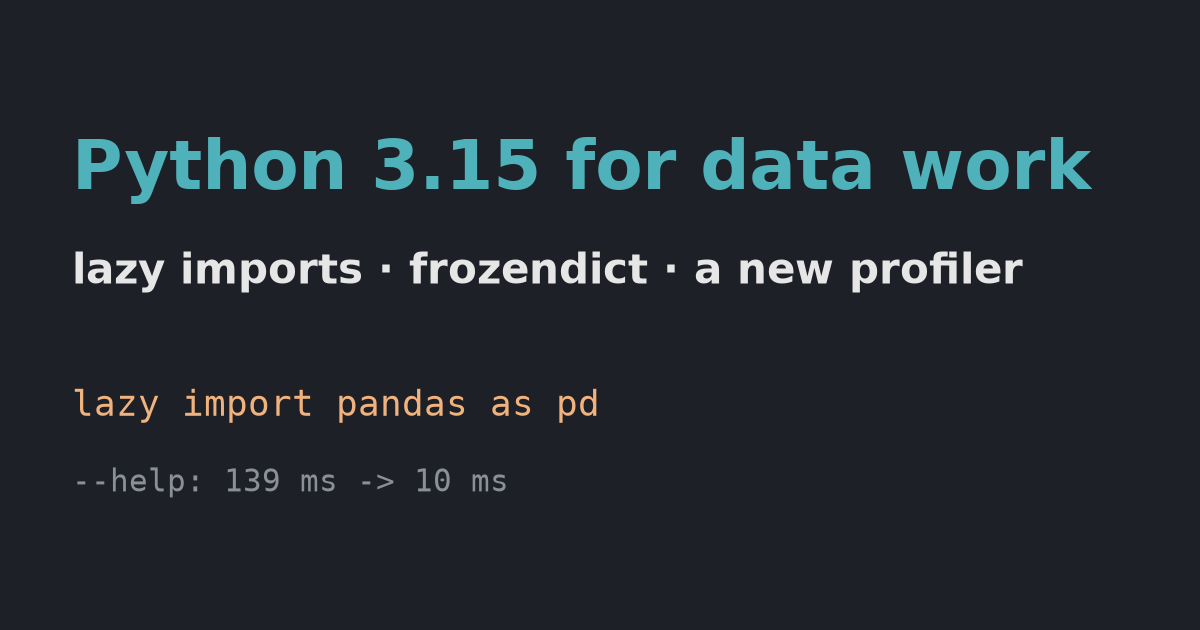
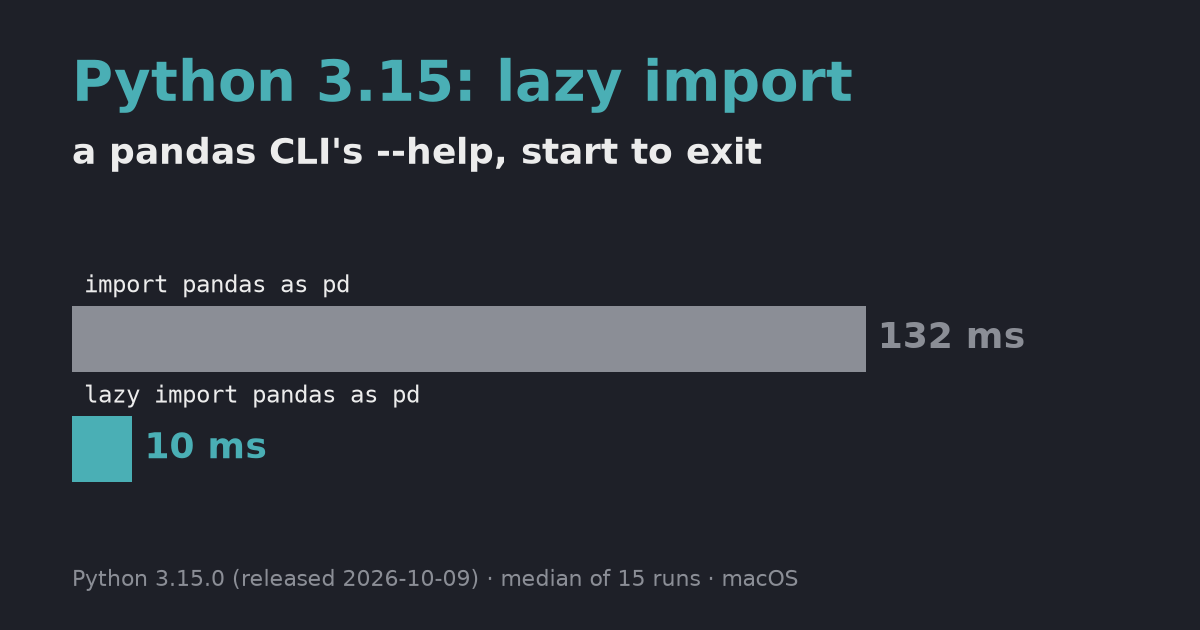
post: Python 3.15 for data work: lazy imports, frozendict and a new profiler

diff --git a/blog/_posts/2026-10-12-python_3_15_data.md b/blog/_posts/2026-10-12-python_3_15_data.md
@@ -1,0 +1,168 @@
+---
+layout: post
+title: "Python 3.15 for data work: lazy imports, frozendict and a new profiler"
+description: >
+  What Python 3.15 changes for data scientists, tested: lazy import cut a pandas CLI's --help from 132 ms to 10 ms,
+  plus frozendict, unpacking in comprehensions, UTF-8 by default and the new profiling package.
+image: /assets/img/blog/python_3_15_data/cover.png
+sitemap:
+  changefreq: daily
+  priority: 1.0
+---
+
+# Python 3.15 for data work: lazy imports, frozendict and a new profiler
+
+**TL;DR** — Python 3.15.0 was released on 2026-10-09. It adds `lazy import`, which delays loading a module until it is first used. In a small CLI, it cut the
+`--help` path from 132 ms to 10 ms by not loading pandas. It also adds a built-in `frozendict`, `*` unpacking inside comprehensions,
+UTF-8 as the default text encoding everywhere, and a new `profiling` package.
+
+_Tested on 2026-10-12 with Python 3.15.0 (released 2026-10-09), numpy 2.5.4 and pandas 3.0.6 on macOS (Apple M5)._
+
+## Key points
+
+- **`lazy import pandas as pd`** (PEP 810) loads pandas only when `pd` is first used. Scripts that sometimes don't need a heavy library start much faster.
+- **`frozendict`** (PEP 814) is an immutable, hashable dict, so you can use settings as cache keys.
+- **`[*x for x in lists]`** (PEP 798) flattens in one comprehension; `{**d for d in dicts}` merges.
+- **UTF-8 is now the default encoding** (PEP 686), no matter the system locale. `open()` without `encoding=` behaves the same on every OS.
+- **The new `profiling` package** (PEP 799) holds the classic tracing profiler and a new sampling profiler. On macOS the sampling profiler needs elevated permissions.
+
+## How much faster does lazy import make startup?
+
+A common pattern: a script imports pandas at the top, but some code paths (like `--help`) never use it.
+
+```python
+import sys
+lazy import pandas as pd
+
+if "--help" in sys.argv:
+    print("usage: report.py FILE")          # this path never touches pandas
+    sys.exit(0)
+df = pd.DataFrame({"x": range(3)})
+print(int(df["x"].sum()))
+```
+
+We timed this script against the same script with a normal `import pandas as pd` (median of 15 runs each, process start to exit):
+
+```python
+import statistics, subprocess, sys, time
+
+def median_ms(args, runs=15):
+    times = []
+    for _ in range(runs):
+        t0 = time.perf_counter(); subprocess.run([sys.executable, *args], capture_output=True, check=True)
+        times.append((time.perf_counter() - t0) * 1000)
+    return statistics.median(times)
+
+print(sys.version.split()[0])
+for mode in ["eager", "lazy"]:
+    print(f"{mode:<6} --help: {median_ms([f'cli_{mode}.py', '--help']):6.0f} ms   real run: {median_ms([f'cli_{mode}.py']):6.0f} ms")
+```
+
+```
+3.15.0
+eager  --help:    132 ms   real run:    132 ms
+lazy   --help:     10 ms   real run:    144 ms
+```
+
+![Bar chart of median start-to-exit time on Python 3.15.0: with a normal import, --help and the real run both take 132 ms; with lazy import, --help takes 10 ms and the real run 144 ms](/assets/img/blog/python_3_15_data/lazy_import.png)
+
+- The `--help` path went from **132 ms to 10 ms**, because pandas was never loaded. This part was the same in every run.
+- The real run took 132 ms with a normal import and 144 ms with lazy import here. In another run on the same machine it was 141 vs 134 ms, the other way round, so treat that difference as noise: lazy import moves the cost of loading pandas, it doesn't remove it.
+
+This matters for command-line tools, test collection, and notebooks or scripts that import many libraries but use a few per run.
+
+## What other new features help day-to-day data code?
+
+```python
+# PEP 798: unpacking in comprehensions
+batches = [[1, 2], [3], [4, 5, 6]]
+print("flattened:", [*b for b in batches])
+configs = [{"lr": 0.1}, {"epochs": 5}, {"lr": 0.01}]
+print("merged:", {**c for c in configs})
+
+# PEP 814: frozendict, an immutable and hashable dict
+params = frozendict(lr=0.01, epochs=5)
+cache = {params: "score 0.93"}               # usable as a dict key
+print("lookup:", cache[frozendict(epochs=5, lr=0.01)])
+try:
+    params["lr"] = 0.1
+except TypeError as e:
+    print("TypeError:", e)
+
+# PEP 686: UTF-8 is the default text encoding
+import locale
+with open("tmp.txt", "w") as f:
+    print("open() default encoding:", f.encoding, "| locale:", locale.getpreferredencoding(False))
+```
+
+```
+flattened: [1, 2, 3, 4, 5, 6]
+merged: {'lr': 0.01, 'epochs': 5}
+lookup: score 0.93
+TypeError: 'frozendict' object does not support item assignment
+open() default encoding: utf-8 | locale: utf-8
+```
+
+- **Flattening** batches no longer needs `itertools.chain` or a double loop.
+- **Merging** dicts keeps the last value for repeated keys (`lr` became 0.01).
+- **`frozendict`** keys match regardless of argument order, which makes it handy for caching results per hyperparameter set.
+- **UTF-8 by default** mainly helps Windows users, where `open()` used to depend on the system locale. On our Mac, both were already UTF-8.
+
+## How do you profile with the new profiling package?
+
+Python 3.15 groups profilers under `profiling`. The tracing profiler (the classic `cProfile`, now also at `profiling.tracing`) finds a slow `apply`:
+
+```python
+import pandas as pd
+import numpy as np
+
+def load(n=300_000):
+    rng = np.random.default_rng(0)
+    return pd.DataFrame({"user": rng.integers(0, 5_000, n), "amount": rng.gamma(2.0, 20.0, n)})
+
+def add_tax_slow(df):
+    return df.apply(lambda row: row["amount"] * 1.1, axis=1)   # row-by-row: slow
+
+def summarize(df):
+    return df.groupby("user")["amount"].agg(["sum", "mean"])
+
+df = load()
+df["with_tax"] = add_tax_slow(df)
+print(summarize(df).shape)
+```
+
+```bash
+python -m profiling.tracing -s cumulative slow_pipeline.py
+```
+
+```
+         7848327 function calls (7841461 primitive calls) in 1.157 seconds
+   ncalls  tottime  percall  cumtime  percall filename:lineno(function)
+        1    0.000    0.000    1.157    1.157 slow_pipeline.py:1(<module>)
+        1    0.000    0.000    1.003    1.003 slow_pipeline.py:8(add_tax_slow)
+   300000    0.035    0.000    0.541    0.000 slow_pipeline.py:9(<lambda>)
+        1    0.003    0.003    0.004    0.004 slow_pipeline.py:4(load)
+        1    0.000    0.000    0.003    0.003 slow_pipeline.py:11(summarize)
+```
+
+(Trimmed to the rows from our script.) `add_tax_slow` took 1.003 of 1.157 seconds. The fix is a vectorized `df["amount"] * 1.1`.
+
+The new **sampling profiler** (`python -m profiling.sampling run script.py`, nicknamed Tachyon) has lower overhead and can attach to a running process.
+On macOS, our run on 3.15.0 stopped with "Permission Error: Unable to access process memory on macOS" and a suggestion to rerun with `sudo -E`, so we did not include its output here.
+
+## Should you upgrade now?
+
+| If you… | Then |
+|---|---|
+| Maintain CLIs or scripts with heavy imports | Try `lazy import` for the libraries used on only some paths |
+| Depend on many compiled packages | Check each one ships wheels for 3.15 (numpy 2.5.4 and pandas 3.0.6 installed as `cp315` wheels on our Mac on 2026-10-12) |
+| Read or write text files on Windows | Re-test file I/O: the default encoding changed to UTF-8 |
+| Need to support older Pythons | `lazy import` is a syntax error before 3.15; keep it out of shared code for now |
+
+## Sources
+
+- [Python 3.15.0 release page](https://www.python.org/downloads/release/python-3150/) — released 2026-10-09, checked 2026-10-12
+- [What's New In Python 3.15](https://docs.python.org/3.15/whatsnew/3.15.html) — Python docs, checked 2026-10-12
+- [PEP 810](https://peps.python.org/pep-0810/) (lazy imports), [PEP 814](https://peps.python.org/pep-0814/) (frozendict), [PEP 798](https://peps.python.org/pep-0798/) (unpacking in comprehensions), [PEP 686](https://peps.python.org/pep-0686/) (UTF-8 mode), [PEP 799](https://peps.python.org/pep-0799/) (profiling package)
+
+Related: [What breaks when you upgrade to pandas 3.0?](/ds/2026-09-28-pandas_3_upgrade/)
